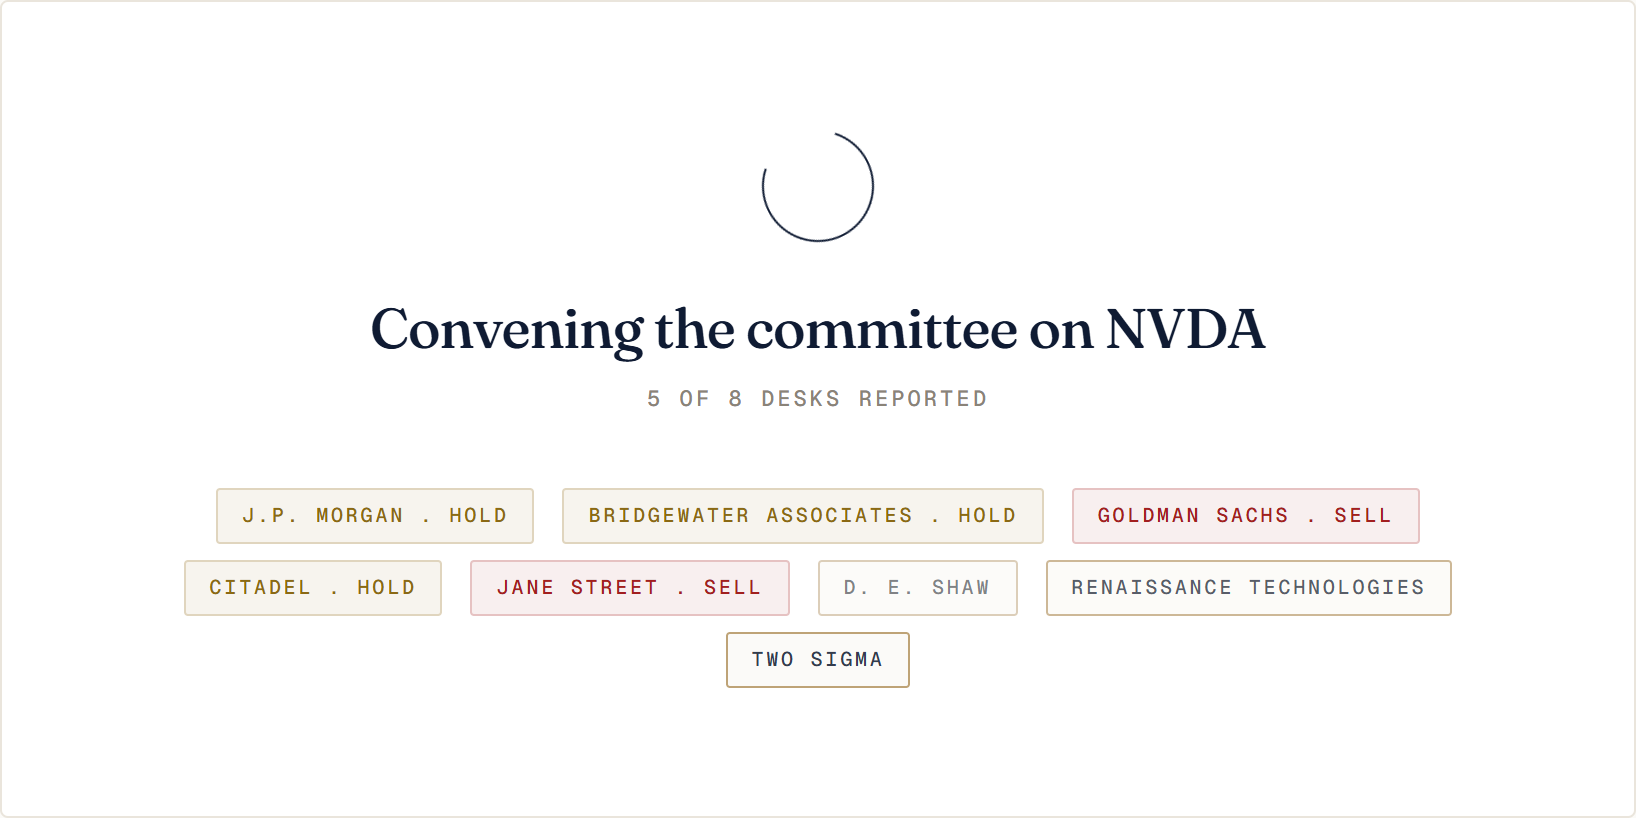
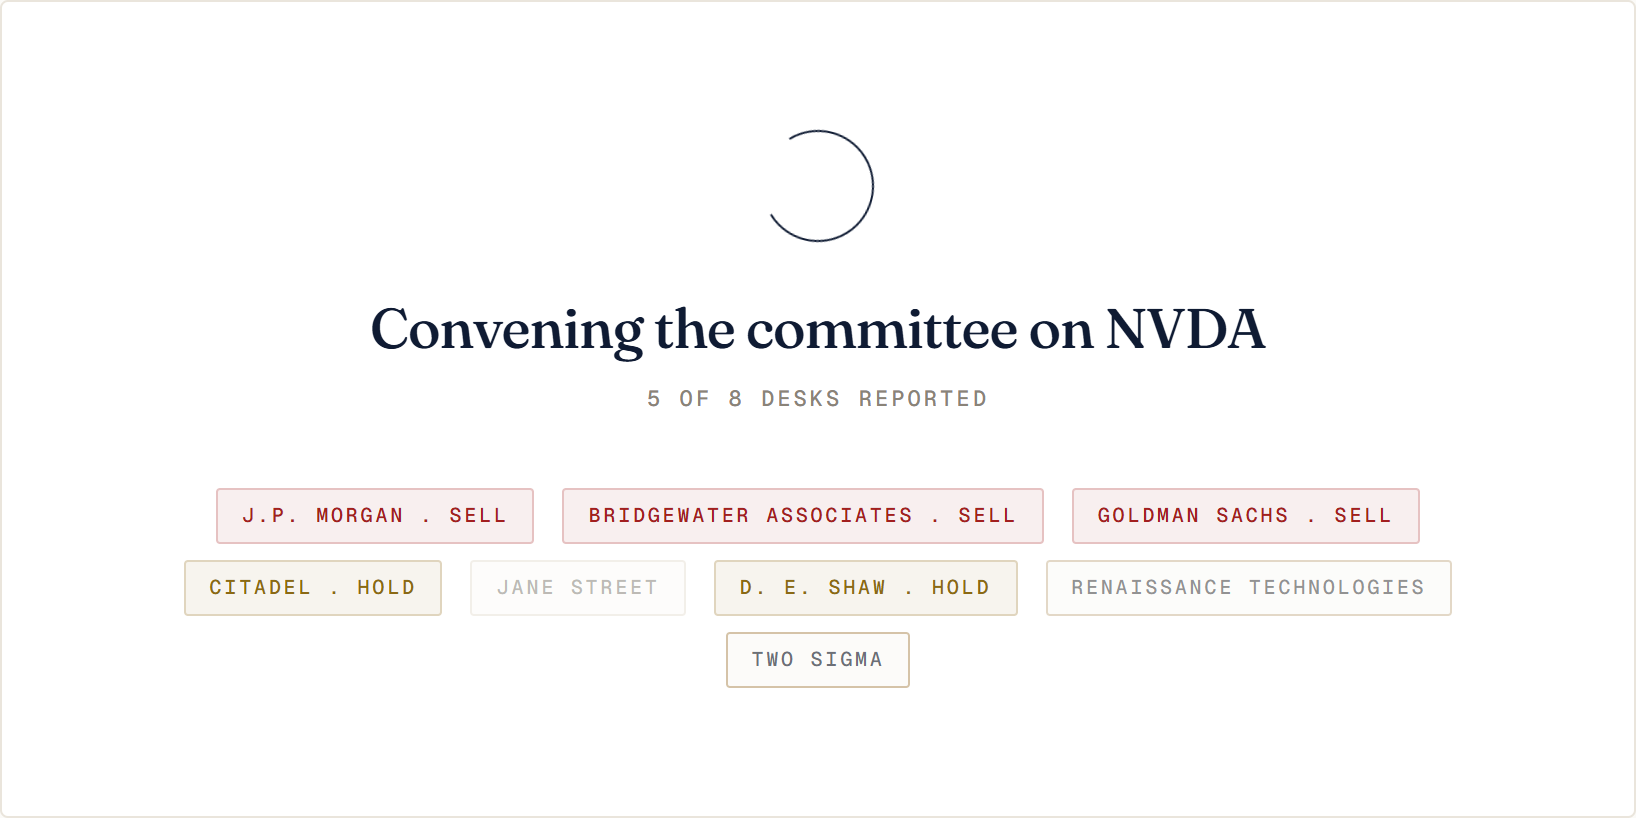
fix: save runs as UTF-8, share one fetch between desks, keep the FRED key out of logs
A live run lost its verdict when the snapshot hit a minus sign under the
Windows default encoding. The same run sent eight copies of the macro
dashboard to FRED at once and was rate limited. The run cache now lets the
first caller fetch while the others wait.

Claude-Session: https://claude.ai/code/session_017hq6XL2Prx1LLnTUxuNErU

diff --git a/tests/data/test_fred_tools.py b/tests/data/test_fred_tools.py
@@ -6,6 +6,7 @@ import pytest
 import respx
 
 from equity_trader.data import fred_tools as ft
+from equity_trader.data.cache import reset_run_cache
 
 
 class FakeFred:
@@ -114,10 +115,42 @@ def test_macro_dashboard_is_fetched_once_a_day_when_complete(monkeypatch):
     assert ft.get_macro_dashboard() is first and len(calls) == fetched
 
 
-def test_incomplete_macro_dashboard_is_not_kept(monkeypatch):
+def test_incomplete_macro_dashboard_is_kept_for_the_run_only(monkeypatch):
     monkeypatch.setattr(ft, "Fred", FakeFred)  # too short for year-over-year readings
     monkeypatch.setattr(ft, "get_release_calendar", lambda: [])
-    assert ft.get_macro_dashboard() is not ft.get_macro_dashboard()
+    first = ft.get_macro_dashboard()
+    assert ft.get_macro_dashboard() is first
+    reset_run_cache()
+    assert ft.get_macro_dashboard() is not first
+
+
+def test_desks_asking_together_build_one_dashboard(monkeypatch):
+    from concurrent.futures import ThreadPoolExecutor
+    from contextvars import copy_context
+
+    calls = []
+
+    class CountingFred(FakeFred):
+        def get_series(self, series_id, observation_start=None):
+            calls.append(series_id)
+            idx = pd.date_range("2022-01-01", periods=40, freq="MS")
+            return pd.Series([1.0 + i for i in range(40)], index=idx)
+
+    monkeypatch.setattr(ft, "Fred", CountingFred)
+    monkeypatch.setattr(ft, "get_release_calendar", lambda: [])
+    with ThreadPoolExecutor(max_workers=8) as pool:
+        futures = [pool.submit(copy_context().run, ft.get_macro_dashboard) for _ in range(8)]
+        dashboards = [f.result() for f in futures]
+    assert all(d is dashboards[0] for d in dashboards)
+    assert len(calls) == sum(len(specs) for specs in ft.DASHBOARD.values())
+
+
+@respx.mock
+def test_a_failed_release_calendar_does_not_log_the_api_key(monkeypatch, caplog):
+    monkeypatch.setenv("FRED_API_KEY", "secret-key-value")
+    respx.get(f"{ft._FRED_API}/release/dates").mock(return_value=httpx.Response(429))
+    assert ft.get_release_calendar() == []
+    assert "429" in caplog.text and "secret-key-value" not in caplog.text
 
 
 def test_sector_macro_uses_yfinance_sector_names(monkeypatch):

diff --git a/equity_trader/data/fred_tools.py b/equity_trader/data/fred_tools.py
@@ -292,7 +292,9 @@ def get_release_calendar(horizon_days: int = 180) -> list[dict]:
                         for d in r.json()["release_dates"]
                         if today <= date.fromisoformat(d["date"]) <= cutoff]
     except httpx.HTTPError as exc:
-        log.warning("FRED release calendar unavailable: %s", exc)
+        # Not str(exc): it prints the request URL, which carries the API key.
+        status = exc.response.status_code if isinstance(exc, httpx.HTTPStatusError) else ""
+        log.warning("FRED release calendar unavailable: %s %s", type(exc).__name__, status)
     return sorted(out, key=lambda r: r["date"])
 
 
@@ -310,12 +312,13 @@ def get_macro_dashboard() -> dict:
         complete = all(row["value"] is not None
                        for rows in dashboard["groups"].values() for row in rows)
         if not complete:
-            return dashboard  # a failed series is retried on the next call
+            return dashboard  # shared by this run's desks; the next run tries again
         _DASHBOARD_BY_DAY.clear()
         _DASHBOARD_BY_DAY[today] = dashboard
     return _DASHBOARD_BY_DAY[today]
 
 
+@cached_for_run
 def _build_dashboard(today: str) -> dict:
     flat = [spec for specs in DASHBOARD.values() for spec in specs]
     rows = {row["series"]: row for row in _readings(flat)}

diff --git a/equity_trader/data/cache.py b/equity_trader/data/cache.py
@@ -1,9 +1,11 @@
+import threading
 from collections.abc import Callable
 from contextvars import ContextVar
 from functools import wraps
 from typing import Any
 
 _run_cache: ContextVar[dict | None] = ContextVar("run_cache", default=None)
+_locks_guard = threading.Lock()
 
 
 def reset_run_cache() -> None:
@@ -35,8 +37,13 @@ def cached_for_run(func: Callable[..., Any]) -> Callable[..., Any]:
                tuple(_make_hashable(a) for a in args),
                tuple(sorted((k, _make_hashable(v)) for k, v in kwargs.items())))
         cache = _get_cache()
-        if key not in cache:
-            cache[key] = func(*args, **kwargs)
+        # Desks run at once and ask for the same data in the same moment. A lock
+        # per key makes the first caller fetch while the others wait for it.
+        with _locks_guard:
+            lock = cache.setdefault(("lock", key), threading.Lock())
+        with lock:
+            if key not in cache:
+                cache[key] = func(*args, **kwargs)
         return cache[key]
 
     return wrapper

diff --git a/tests/data/test_cache.py b/tests/data/test_cache.py
@@ -21,6 +21,30 @@ def test_cache_hit_within_run():
     assert calls["n"] == 1
 
 
+def test_callers_arriving_together_share_one_fetch():
+    import threading
+    import time
+    from concurrent.futures import ThreadPoolExecutor
+    from contextvars import copy_context
+
+    reset_run_cache()
+    calls, release = [], threading.Event()
+
+    @cached_for_run
+    def slow(x):
+        calls.append(x)
+        release.wait(2)
+        return x * 2
+
+    # Each desk's tool runs in a thread that carries a copy of the run's context.
+    with ThreadPoolExecutor(max_workers=8) as pool:
+        futures = [pool.submit(copy_context().run, slow, 21) for _ in range(8)]
+        time.sleep(0.2)
+        release.set()
+        assert [f.result() for f in futures] == [42] * 8
+    assert calls == [21]
+
+
 def test_cache_reset_between_runs():
     reset_run_cache()
     calls["n"] = 0

diff --git a/tests/test_persistence.py b/tests/test_persistence.py
@@ -23,6 +23,14 @@ def _verdict():
     )
 
 
+def test_snapshot_is_utf8_whatever_the_platform_default(tmp_path):
+    v = _verdict().model_copy(update={
+        "synthesis": "Edge after cost is \u22121.2% and the target is \u20ac210, per the desks."})
+    persist(v, db_path=str(tmp_path / "et.db"), runs_dir=str(tmp_path / "runs"))
+    snap = next((tmp_path / "runs").glob("*.json"))
+    assert "\u22121.2%" in json.loads(snap.read_text(encoding="utf-8"))["synthesis"]
+
+
 def test_persist_writes_sqlite_and_json(tmp_path):
     db = tmp_path / "et.db"
     runs_dir = tmp_path / "runs"

diff --git a/run.py b/run.py
@@ -15,6 +15,9 @@ from equity_trader.exceptions import DataFetchError
 from equity_trader.runner import analyze_ticker
 from equity_trader.schemas import OrchestratorVerdict
 
+# A redirected stdout on Windows defaults to cp1252, which cannot encode the
+# minus signs and arrows that appear in model output.
+sys.stdout.reconfigure(encoding="utf-8")
 console = Console()
 
 _REC_STYLE = {"BUY": "bold green", "HOLD": "bold yellow", "SELL": "bold red"}

diff --git a/equity_trader/persistence.py b/equity_trader/persistence.py
@@ -38,7 +38,7 @@ def persist(verdict: OrchestratorVerdict,
     run_id = str(uuid.uuid4())
     ts = verdict.run_timestamp.strftime("%Y-%m-%d_%H%M%S")
     snap_path = Path(runs_dir) / f"{verdict.ticker}_{ts}.json"
-    snap_path.write_text(verdict.model_dump_json(indent=2))
+    snap_path.write_text(verdict.model_dump_json(indent=2), encoding="utf-8")
 
     con = sqlite3.connect(db_path)
     try:
